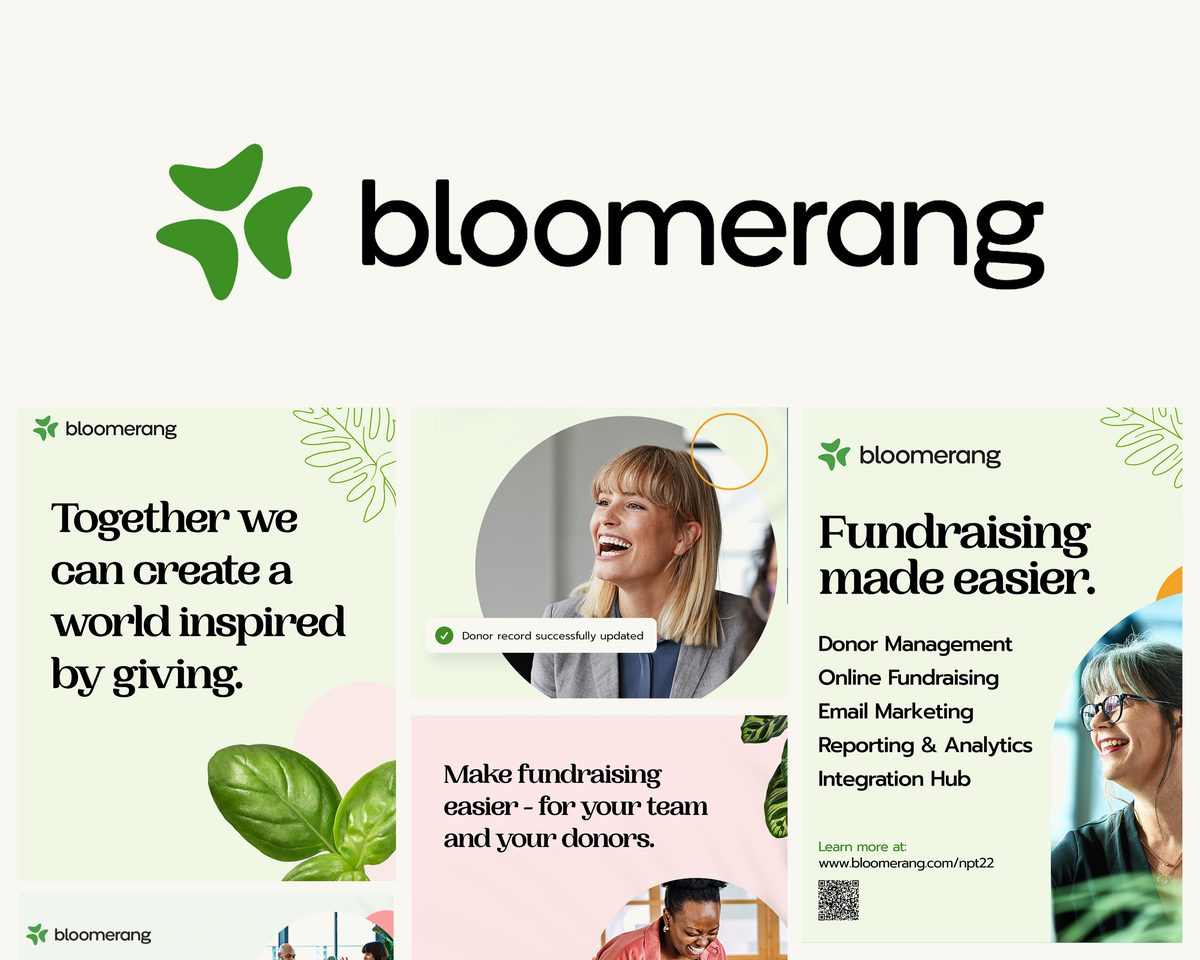
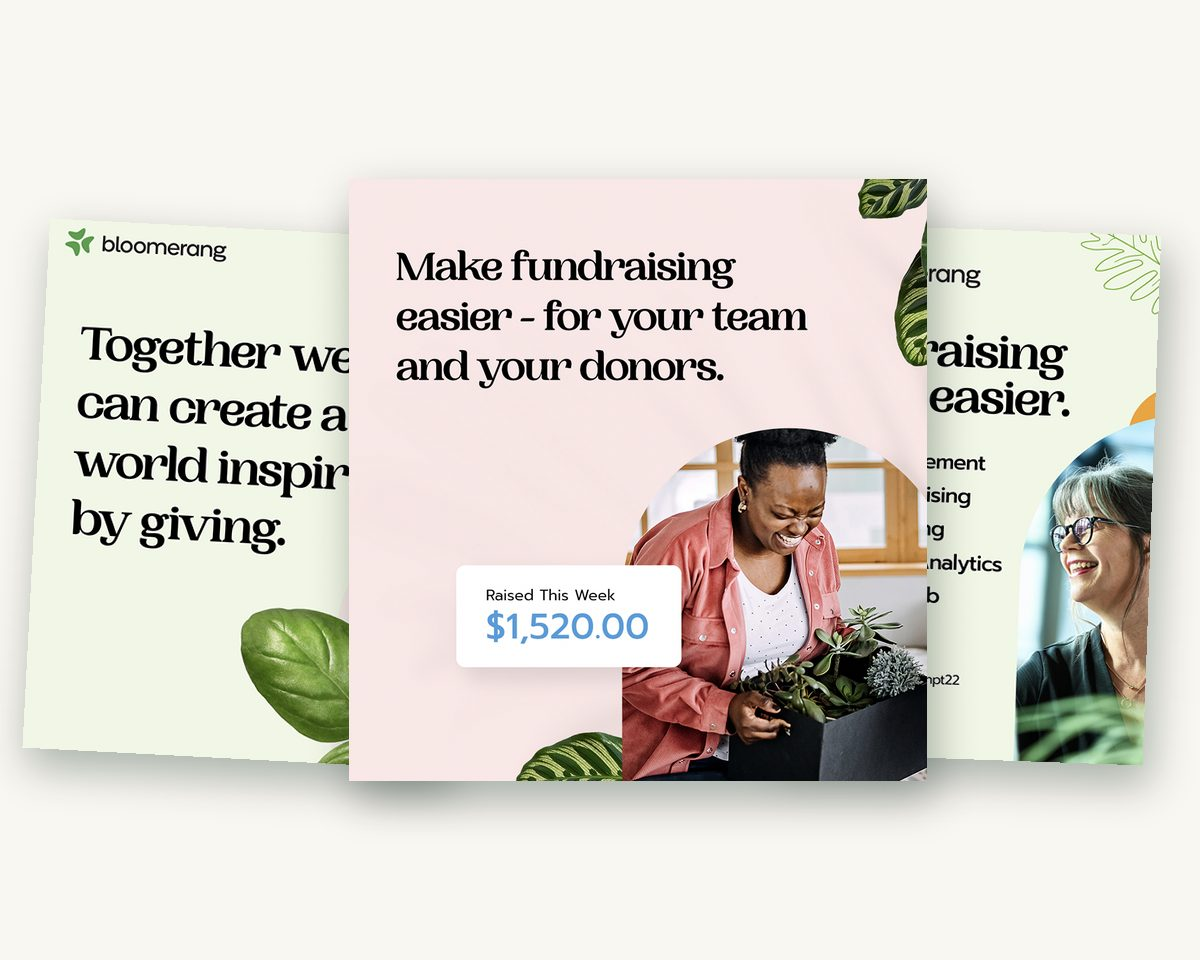
Bloomerang and Foreign Fields cards: fanned real pieces

diff --git a/index.html b/index.html
@@ -161,7 +161,7 @@ grid-template-areas:"head head split split" "head head fast pick" "own own fast 
 </a>
 <a href="#work" class="wa-card">
 <div class="wa-top"><div class="wa-tape" style="background: #DD4B3B; color: #FFFFFF; font-family: 'Archivo', sans-serif; font-stretch: 125%; font-weight: 800; text-transform: uppercase; letter-spacing: -0.04em; font-size: 15px; line-height: 1.2; padding: 10px 16px; transform: rotate(1deg); ">Creative Partner for a Nonprofit SaaS</div>
-<picture class="wa-media"><img class="wa-img" src="images/work/bloomerang-54.jpg" alt="Bloomerang campaign ads and reports" loading="lazy"></picture></div>
+<picture class="wa-media"><img class="wa-img" src="images/work/bloomerang-54.jpg" alt="Three Bloomerang ads: Together we can create a world inspired by giving; Make fundraising easier for your team and your donors; Fundraising made easier" loading="lazy"></picture></div>
 <div class="wa-body"><div class="wa-name" style="font-family: 'Archivo', sans-serif; font-stretch: 125%; font-weight: 800; text-transform: uppercase; letter-spacing: -0.04em; font-size: 20px;">Bloomerang</div>
 <div style="font-size: 15px; line-height: 1.55; color: #2E4A3B;">Core design partner for a fast-growing nonprofit software company: campaigns, content and events, with one consistent look.</div></div>
 </a>
@@ -173,7 +173,7 @@ grid-template-areas:"head head split split" "head head fast pick" "own own fast 
 </a>
 <a href="https://foreignfields.net" target="_blank" rel="noopener" class="wa-card">
 <div class="wa-top"><div class="wa-tape" style="background: #DD4B3B; color: #FFFFFF; font-family: 'Archivo', sans-serif; font-stretch: 125%; font-weight: 800; text-transform: uppercase; letter-spacing: -0.04em; font-size: 15px; line-height: 1.2; padding: 10px 16px; transform: rotate(1.5deg); ">My Band, 75M+ Streams</div>
-<picture class="wa-media"><img class="wa-img" src="images/work/foreignfields-54.jpg" alt="Foreign Fields vinyl, merch and gig poster" loading="lazy"></picture></div>
+<picture class="wa-media"><img class="wa-img" src="images/work/foreignfields-54.jpg" alt="Foreign Fields album covers: Anywhere But Where I Am, What It Cost and Take Cover" loading="lazy"></picture></div>
 <div class="wa-body"><div class="wa-name" style="font-family: 'Archivo', sans-serif; font-stretch: 125%; font-weight: 800; text-transform: uppercase; letter-spacing: -0.04em; font-size: 20px;">Foreign Fields</div>
 <div style="font-size: 15px; line-height: 1.55; color: #2E4A3B;">Album art, vinyl, merch, posters and release campaigns for my band.</div></div>
 </a>

diff --git a/CLAUDE.md b/CLAUDE.md
@@ -42,7 +42,7 @@ Plain static site (index.html + images/). No build step. Hosted on Netlify from 
 
 ## Source files
 - "Old Portfolio Images/" holds the original PSDs and full-size exports (about 1.9 GB). It is gitignored, as is every *.psd: GitHub rejects files over 100 MB. Export web-sized JPG/PNG into images/ and commit those.
-- Work card art lives in images/work/{brand}-54.jpg (1200x960, 5:4) plus viva-21.jpg for the wide tablet slot. Each is the brand's real pieces (Muse: Thank you NLM ad, children's museum print ad, sky print ad) (cover pages or finished PNG exports) fanned on cream with soft shadows; Viva is a full-bleed poster; foreignfields-54.jpg is the old Foreign Fields collage cropped below its baked label, on card cream; EUPHORIA's poster is images/euphoria-poster.jpg in Play; Bloomerang is the old collage cropped below its baked label with headroom added. Brand source folders (NGP VAN, Bonterra, Brightmont, Muse, Auction Packages, ~11 GB) sit in the project root and are gitignored along with *.pdf, *.psd, *.ai, *.indd.
+- Work card art lives in images/work/{brand}-54.jpg (1200x960, 5:4) plus viva-21.jpg for the wide tablet slot. Each is the brand's real pieces (Muse: Thank you NLM ad, children's museum print ad, sky print ad) (cover pages or finished PNG exports) fanned on cream with soft shadows; Viva is a full-bleed poster; foreignfields-54.jpg fans three album covers (Anywhere But Where I Am, What It Cost, Take Cover) cut from the vinyl mockups in ~/Sites/foreignfields-site/images; EUPHORIA's poster is images/euphoria-poster.jpg in Play; Bloomerang fans three ads from the Bloomerang/ folder (screenshots, edges trimmed 2px). Brand source folders (NGP VAN, Bonterra, Brightmont, Muse, Auction Packages, ~11 GB) sit in the project root and are gitignored along with *.pdf, *.psd, *.ai, *.indd.
 - Copy facts from the source folders: NGP VAN 13 guides/playbooks (PAC Playbook, Win Your Local Election, VANual, MiniVANual, Quick Start, GOTV, Moment-based fundraising, Complete guide to political fundraising, Coalition, Volunteer Recruitment, Tectonica distributed organizing, 2026 Election Prep Checklist, 50 Fundraising Ideas) plus Navigator AI launch socials; Bonterra 3 long-form guides + 7 product two-pagers (EveryAction, Network for Good, CyberGrants, Deed, DonorDrive, Que, OneCause).
 - The "-portfolio" files are finished collages with baked-in tape labels and text (Raise's label contains an em dash). Prefer individual pieces for the site.
 
